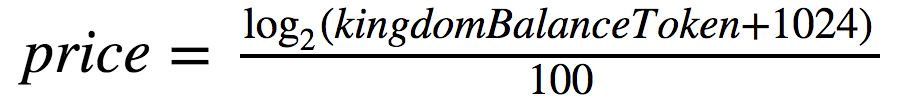
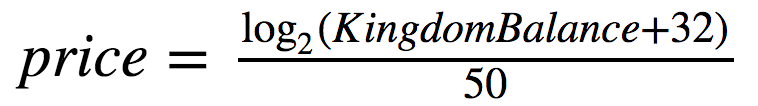
modify formula

Changed region(s): [[0.0, 0.0577, 0.971, 0.9519], [0.091, 0.2885, 0.1214, 0.4038]]

diff --git a/doc/INTRODUCTION-qtum.md b/doc/INTRODUCTION-qtum.md
@@ -9,7 +9,7 @@ the rise of the fortunes of Han began when Liu Bang the ancestor slew a white se
 
 ## Game detail：
 
-1. Price: The price increases as the increase of funds accepted by countries. The earlier the same funds are invested, the more combat value will be obtained. For example, if the kingdomBalanceToken is 0, then price is 0.1, and if kingdomBalanceToken is 1024, then price will be 0.11. KingdomBalance is the total amount of QTUM received by the country.The formula is:
+1. Price: The price increases as the increase of funds accepted by countries. The earlier the same funds are invested, the more combat value will be obtained. For example, if the kingdomBalanceToken is 0, then price is 0.1, and if kingdomBalanceToken is 32, then price will be 0.12. KingdomBalance is the total amount of QTUM received by the country.The formula is:
 
 <div align=center>
 

diff --git a/doc/INTRODUCTION-qtum-chinese.md b/doc/INTRODUCTION-qtum-chinese.md
@@ -6,7 +6,7 @@
 
 ## 游戏细节：
 
-1. 战斗力价格price：战斗力价格随着各国接受的资金的增加而增加，相同资金越早投资将获得越多战斗值。例如当初始总战斗力为0时，price为0.1，当战斗力为1024的时候，price为0.11。KingdomBalance为国家收到的总战斗力数量。
+1. 战斗力价格price：战斗力价格随着各国接受的资金的增加而增加，相同资金越早投资将获得越多战斗值。例如当初始总战斗力为0时，price为0.1；当战斗力为32的时候，price为0.12；当战斗力为992时，price为0.2。KingdomBalance为国家收到的总战斗力数量。
 
 <div align=center>
 
